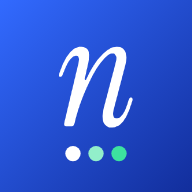
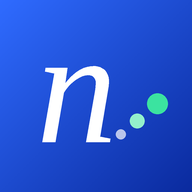
feat(nancy-2): ícone novo (6b, provisório) no app, no PWA e no Android
Troca o ícone do Nancy pelo 6b enviado pelo André: quadrado arredondado em
degradê #2F6BFF → #0A2A9E, "n" branco itálico serifado e 3 pontos (branco a
70%, #93F0CB, #3BE3A0).

O "n" foi traçado do PNG 1024 do design (a referência): o SVG do design usa a
fonte Instrument Serif por <text>, que desenha outro "n" (cursivo), diferente
do PNG. Conferido contra o PNG: diferença média de cor 0,46/255, só bordas
antialiased diferem. Pontos, raio dos cantos (23/100) e degradê vêm do SVG.

Atualizados: NancyMark (ícone dentro do app: chat, stories, Instalar app),
icon.svg (favicon), icon-192/512 (PWA, sangria total), logo-icon.png (menu e
páginas legais), e no app Android store_icon, ic_launcher, ic_maskable, splash
(ícone a 40% do quadrado, como antes) e ic_notification_icon (só o "n" branco
com alfa). O app Android só muda de ícone quando for gerado e publicado de
novo; nada foi disparado.

Teste do NancyMark atualizado pras cores novas, mantendo as verificações que
já existiam (tamanho, id do degradê sem ":" etc.) e conferindo que o favicon
SVG tem o mesmo "n" do componente.

Changed region(s): [[0.2188, 0.2188, 0.7812, 0.8438], [0.75, 0.4688, 0.875, 0.5938]]

diff --git a/frontend/src/components/ui/NancyMark.jsx b/frontend/src/components/ui/NancyMark.jsx
@@ -1,30 +1,29 @@
 import { useId } from 'react'
 
-// Ícone do Nancy (Nancy 2): quadrado arredondado em degradê azul com um "n" itálico e três
-// bolinhas (branca, menta clara, menta). Vetorizado do ícone enviado pelo André: o contorno do
-// "n" foi traçado da imagem e o degradê (135°, #326AFF → #122E9C), o raio dos cantos (32/140) e
-// as bolinhas foram medidos nela — não é redesenho. Se chegar o arquivo original (SVG), é só
-// trocar o conteúdo daqui; todos os usos (chat, stories) passam por este componente.
-// Só o ícone: a versão com o nome ("nancy…") não é usada em nenhuma tela ainda.
+// Ícone do Nancy (ícone 6b, provisório do design): quadrado arredondado em degradê azul (#2F6BFF → #0A2A9E, diagonal), um
+// "n" itálico serifado branco e três pontos (branco a 70%, menta clara #93F0CB, menta #3BE3A0) subindo à direita.
+// O "n" foi traçado do PNG 1024 que o André enviou (marching squares + simplificação, sem fonte): o SVG do design usa a
+// Instrument Serif por <text>, que desenha outro "n" (cursivo) — o PNG é a referência. Pontos, raio dos cantos (23/100) e
+// degradê são os do SVG do design. Todos os usos (chat, stories, Instalar app) passam por este componente.
 const N_PATH =
-  'M96.75 72.62 L96.62 73.22 L96.12 74.35 L95.73 76.12 L95.12 77.34 L94.75 79.12 L94.19 80.12 L93.82 81.38 L93.16 82.38 L92.79 83.62 L92.29 84.38 L91.8 85.62 L91.13 86.38 L89.8 88.62 L87.62 90.79 L86.12 91.79 L85.09 92.12 L83.88 92.74 L81.88 92.99 L79.62 92.93 L79.12 92.76 L77.38 91.72 L76.31 90.62 L75.3 88.88 L75.03 87.88 L74.81 84.62 L75.22 80.38 L75.88 78.26 L76.27 76.12 L76.83 74.62 L77.19 72.62 L77.88 70.78 L78.17 68.88 L78.82 67.12 L79.23 64.88 L79.86 63.12 L80.21 61.12 L80.88 59.28 L81.2 57.38 L81.84 55.62 L82.26 53.38 L82.88 51.78 L83.18 49.88 L83.88 47.92 L84.16 46.12 L84.72 44.38 L84.88 43.27 L84.92 41.88 L84.79 41.12 L83.61 39.38 L83.12 39.1 L82.38 38.94 L81.38 38.99 L80.38 39.24 L78.84 40.12 L76.38 42.21 L73.12 46.04 L72.82 46.62 L72.14 47.38 L71.88 47.95 L71.14 48.88 L70.78 49.62 L70.12 50.35 L69.83 51.12 L69.12 52.1 L68.84 52.88 L68.27 53.62 L67.69 54.88 L67.25 55.38 L66.77 56.62 L66.22 57.38 L65.81 58.62 L65.29 59.38 L64.72 60.88 L64.12 61.81 L63.8 62.88 L63.18 63.88 L62.82 65.12 L62.19 66.12 L61.72 67.62 L61.2 68.38 L60.8 69.88 L60.25 70.88 L59.74 72.62 L59.12 73.84 L58.81 75.12 L58.16 76.38 L57.78 78.12 L57.2 79.38 L56.75 81.38 L56.1 82.88 L55.76 84.62 L55.14 86.38 L54.68 88.88 L53.77 91.38 L53.38 91.77 L52.62 91.99 L48.38 92 L47.38 91.88 L47.07 91.62 L46.77 90.62 L47.18 87.88 L47.83 85.88 L48.19 83.62 L48.83 81.62 L49.26 79.12 L49.88 77.29 L50.2 75.12 L50.86 73.12 L51.28 70.62 L51.88 68.92 L52.22 66.62 L52.82 64.88 L53.18 62.62 L53.83 60.62 L54.25 58.12 L54.88 56.28 L55.2 54.12 L55.88 52.04 L56.21 49.88 L56.87 47.88 L57.6 43.62 L57.58 42.88 L57.11 41.38 L56.62 40.91 L55.38 40.69 L53.38 41.24 L51.12 43.37 L50.85 43.88 L50.34 44.38 L49.69 45.62 L49.26 46.12 L48.79 47.38 L48.12 48.35 L47.75 49.62 L47.25 50.38 L46.71 52.12 L46.14 53.12 L45.83 54.38 L44.88 55.81 L44.38 56.04 L43.38 55.93 L43.1 55.62 L43 54.88 L43.19 53.38 L43.84 52.12 L44.14 50.88 L44.79 49.62 L45.27 47.88 L45.74 47.12 L46.17 45.88 L46.87 44.88 L47.21 43.88 L47.88 42.89 L48.16 42.12 L51.13 38.12 L52.12 37.15 L52.62 36.85 L53.27 36.12 L54.62 35.25 L55.88 34.85 L56.65 34.38 L57.72 34.12 L59.38 34.02 L60.88 34.19 L62.88 35.12 L63.12 35.35 L63.89 36.12 L64.83 37.88 L65 39.88 L64.9 43.62 L64.08 46.88 L63.74 49.12 L63.12 51 L62.78 53.38 L62.04 55.88 L61.81 57.62 L61.97 58.12 L62.38 58.33 L62.62 58.27 L62.88 57.99 L63.26 56.88 L63.88 55.92 L64.22 54.88 L64.88 53.88 L65.13 53.12 L65.83 52.12 L66.23 51.12 L66.81 50.38 L67.19 49.38 L67.85 48.62 L68.29 47.62 L68.88 46.95 L69.3 46.12 L69.8 45.62 L70.12 44.96 L71.27 43.38 L71.85 42.88 L72.38 42.15 L72.88 41.76 L73.12 41.34 L73.67 40.88 L75.16 39.12 L78.62 36.22 L79.62 35.84 L80.38 35.26 L81.88 34.71 L82.38 34.37 L85.12 34.02 L87.62 34.26 L89.62 35.34 L90.73 36.62 L91.8 38.62 L92.17 41.88 L91.95 45.12 L91.73 46.38 L91.12 48.1 L90.78 50.12 L90.12 51.92 L89.8 53.88 L89.12 55.73 L88.75 57.88 L88.18 59.38 L87.76 61.62 L87.13 63.38 L86.79 65.38 L86.15 67.12 L85.74 69.38 L85.12 71.03 L84.76 73.12 L84.12 74.87 L83.77 76.88 L83.12 78.68 L82.42 82.62 L82.5 83.88 L83.1 85.62 L83.62 86.03 L84.62 86.27 L85.38 86.28 L86.62 86.04 L87.38 85.63 L89.72 83.12 L90.23 82.12 L90.8 81.38 L91.18 80.12 L91.88 78.94 L92.18 77.62 L92.88 76.17 L93.27 74.38 L94.38 71.56 L95.12 71.07 L95.88 71.1 L96.26 71.38 L96.57 71.88Z'
+  'M46.92 34.52 L45.56 34.77 L43.7 35.38 L42.63 35.86 L41.36 36.55 L39.8 37.55 L38.23 38.82 L36.87 40.06 L35.5 41.55 L34.13 43.2 L34.1 42.92 L35.14 35.6 L35.11 35.41 L23.78 35.41 L23.44 37.16 L23.49 37.27 L27.98 38.21 L28.26 38.33 L22.02 74.0 L28.79 73.97 L33.31 48.19 L34.33 46.64 L35.86 44.78 L36.6 43.99 L37.84 42.87 L39.31 41.72 L41.16 40.55 L42.82 39.77 L44.09 39.38 L45.85 39.17 L46.92 39.26 L47.51 39.4 L48.0 39.58 L48.49 39.88 L48.93 40.28 L49.43 40.97 L49.73 41.65 L49.89 42.33 L49.99 43.31 L49.79 45.56 L49.49 47.51 L44.85 73.97 L57.18 73.97 L57.51 72.22 L57.47 72.15 L52.2 71.18 L52.15 71.04 L56.61 44.87 L56.77 43.02 L56.72 41.75 L56.52 40.38 L56.02 38.82 L55.32 37.46 L54.6 36.57 L53.95 35.99 L53.47 35.68 L52.1 35.0 L50.54 34.59 L49.85 34.48 L48.49 34.43Z'
 
 export default function NancyMark({ size = 40 }) {
   // id único por instância (useId traz ":" no meio, que atrapalha o url(#...) em alguns navegadores)
   const gradId = `nancy-mark-${useId().replace(/:/g, '')}`
   return (
-    <svg className="nancy-mark" viewBox="0 0 140 140" width={size} height={size} aria-hidden="true" focusable="false">
+    <svg className="nancy-mark" viewBox="0 0 100 100" width={size} height={size} aria-hidden="true" focusable="false">
       <defs>
-        <linearGradient id={gradId} gradientUnits="userSpaceOnUse" x1="0" y1="0" x2="140" y2="140">
-          <stop offset="0" stopColor="#326AFF" />
-          <stop offset="1" stopColor="#122E9C" />
+        <linearGradient id={gradId} x1="0" y1="0" x2="1" y2="1">
+          <stop offset="0" stopColor="#2F6BFF" />
+          <stop offset="1" stopColor="#0A2A9E" />
         </linearGradient>
       </defs>
-      <rect width="140" height="140" rx="32" fill={`url(#${gradId})`} />
+      <rect width="100" height="100" rx="23" fill={`url(#${gradId})`} />
       <path d={N_PATH} fill="#fff" />
-      <circle cx="53.21" cy="112.01" r="5.6" fill="#fff" />
-      <circle cx="70.01" cy="112.01" r="5.6" fill="#92EFCA" />
-      <circle cx="86.78" cy="112.01" r="5.6" fill="#3DE29F" />
+      <circle cx="63" cy="70" r="2.6" fill="#fff" opacity=".7" />
+      <circle cx="71.5" cy="63" r="3.8" fill="#93F0CB" />
+      <circle cx="82" cy="54" r="5.4" fill="#3BE3A0" />
     </svg>
   )
 }

diff --git a/frontend/src/__tests__/NancyMark.test.jsx b/frontend/src/__tests__/NancyMark.test.jsx
@@ -1,30 +1,43 @@
 import { render } from '@testing-library/react'
+import { readFileSync } from 'node:fs'
+import { resolve } from 'node:path'
 import NancyMark from '../components/ui/NancyMark.jsx'
 
-describe('NancyMark — ícone do Nancy 2', () => {
-  it('desenha o "n" e as três bolinhas (branca, menta clara, menta) no tamanho pedido, escondido dos leitores de tela', () => {
-    const { container } = render(<NancyMark size={42} />)
-    const svg = container.querySelector('svg')
-    expect(svg).toHaveAttribute('width', '42')
-    expect(svg).toHaveAttribute('height', '42')
-    expect(svg).toHaveAttribute('aria-hidden', 'true')
+// Ícone 6b do design: degradê #2F6BFF → #0A2A9E, "n" branco e 3 pontos (branco 70%, #93F0CB, #3BE3A0).
+describe('NancyMark (ícone do Nancy)', () => {
+  it('desenha o quadrado arredondado em degradê, o "n" e os 3 pontos do ícone 6b', () => {
+    const { container } = render(<NancyMark size={48} />)
+    const svg = container.querySelector('svg.nancy-mark')
+    expect(svg).toHaveAttribute('viewBox', '0 0 100 100')
+    expect(svg).toHaveAttribute('width', '48')
+    expect(svg).toHaveAttribute('height', '48')
+    expect(svg).toHaveAttribute('aria-hidden', 'true') // escondido dos leitores de tela
+    expect([...svg.querySelectorAll('stop')].map(s => s.getAttribute('stop-color'))).toEqual(['#2F6BFF', '#0A2A9E'])
+    expect(svg.querySelector('rect')).toHaveAttribute('rx', '23')
     expect(svg.querySelector('path')).toHaveAttribute('fill', '#fff')
-    expect([...svg.querySelectorAll('circle')].map(c => c.getAttribute('fill'))).toEqual(['#fff', '#92EFCA', '#3DE29F'])
+    expect([...svg.querySelectorAll('circle')].map(c => [c.getAttribute('cx'), c.getAttribute('cy'), c.getAttribute('r'), c.getAttribute('fill'), c.getAttribute('opacity')])).toEqual([
+      ['63', '70', '2.6', '#fff', '.7'], ['71.5', '63', '3.8', '#93F0CB', null], ['82', '54', '5.4', '#3BE3A0', null],
+    ])
   })
 
-  it('tamanho padrão é 40 e o quadrado usa o degradê azul da marca', () => {
+  it('tamanho padrão é 40', () => {
     const { container } = render(<NancyMark />)
     expect(container.querySelector('svg')).toHaveAttribute('width', '40')
-    const stops = [...container.querySelectorAll('stop')].map(s => s.getAttribute('stop-color'))
-    expect(stops).toEqual(['#326AFF', '#122E9C'])
   })
 
-  it('cada instância tem o próprio id de degradê (duas na mesma tela não se confundem) e o retângulo aponta pro dela', () => {
+  it('duas instâncias na mesma tela não dividem o id do degradê', () => {
     const { container } = render(<><NancyMark /><NancyMark /></>)
     const ids = [...container.querySelectorAll('linearGradient')].map(g => g.id)
     expect(new Set(ids).size).toBe(2)
     ids.forEach(id => expect(id).not.toMatch(/[:\s]/)) // ":" do useId quebra o url(#id) em alguns navegadores
-    const fills = [...container.querySelectorAll('rect')].map(r => r.getAttribute('fill'))
-    expect(fills).toEqual(ids.map(id => `url(#${id})`))
+    container.querySelectorAll('svg').forEach((svg, i) => expect(svg.querySelector('rect').getAttribute('fill')).toBe(`url(#${ids[i]})`))
+  })
+
+  it('o favicon vetorial (icon.svg) é o mesmo ícone, com o mesmo "n"', () => {
+    const svg = readFileSync(resolve(process.cwd(), 'public', 'icon.svg'), 'utf8')
+    const { container } = render(<NancyMark />)
+    expect(svg).toContain('#2F6BFF'); expect(svg).toContain('#0A2A9E'); expect(svg).toContain('rx="23"')
+    const d = container.querySelector('path').getAttribute('d')
+    expect(svg).toContain(`d="${d}"`)
   })
 })
